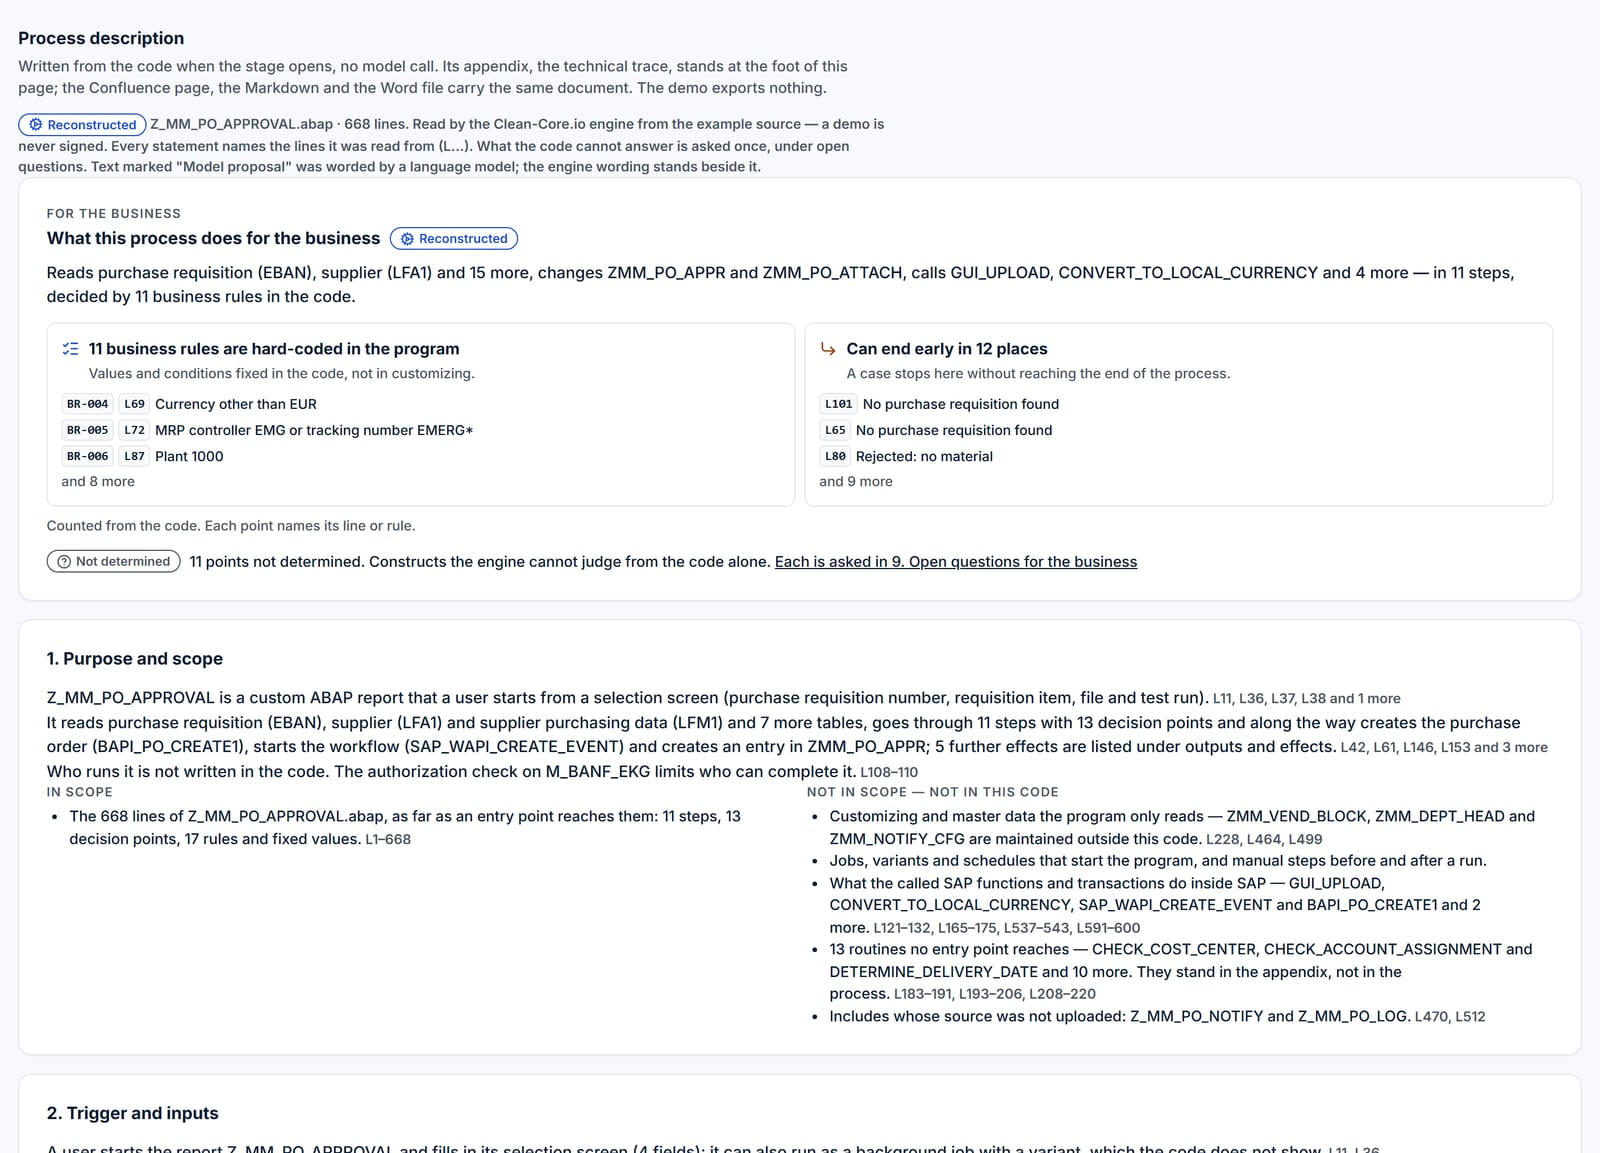
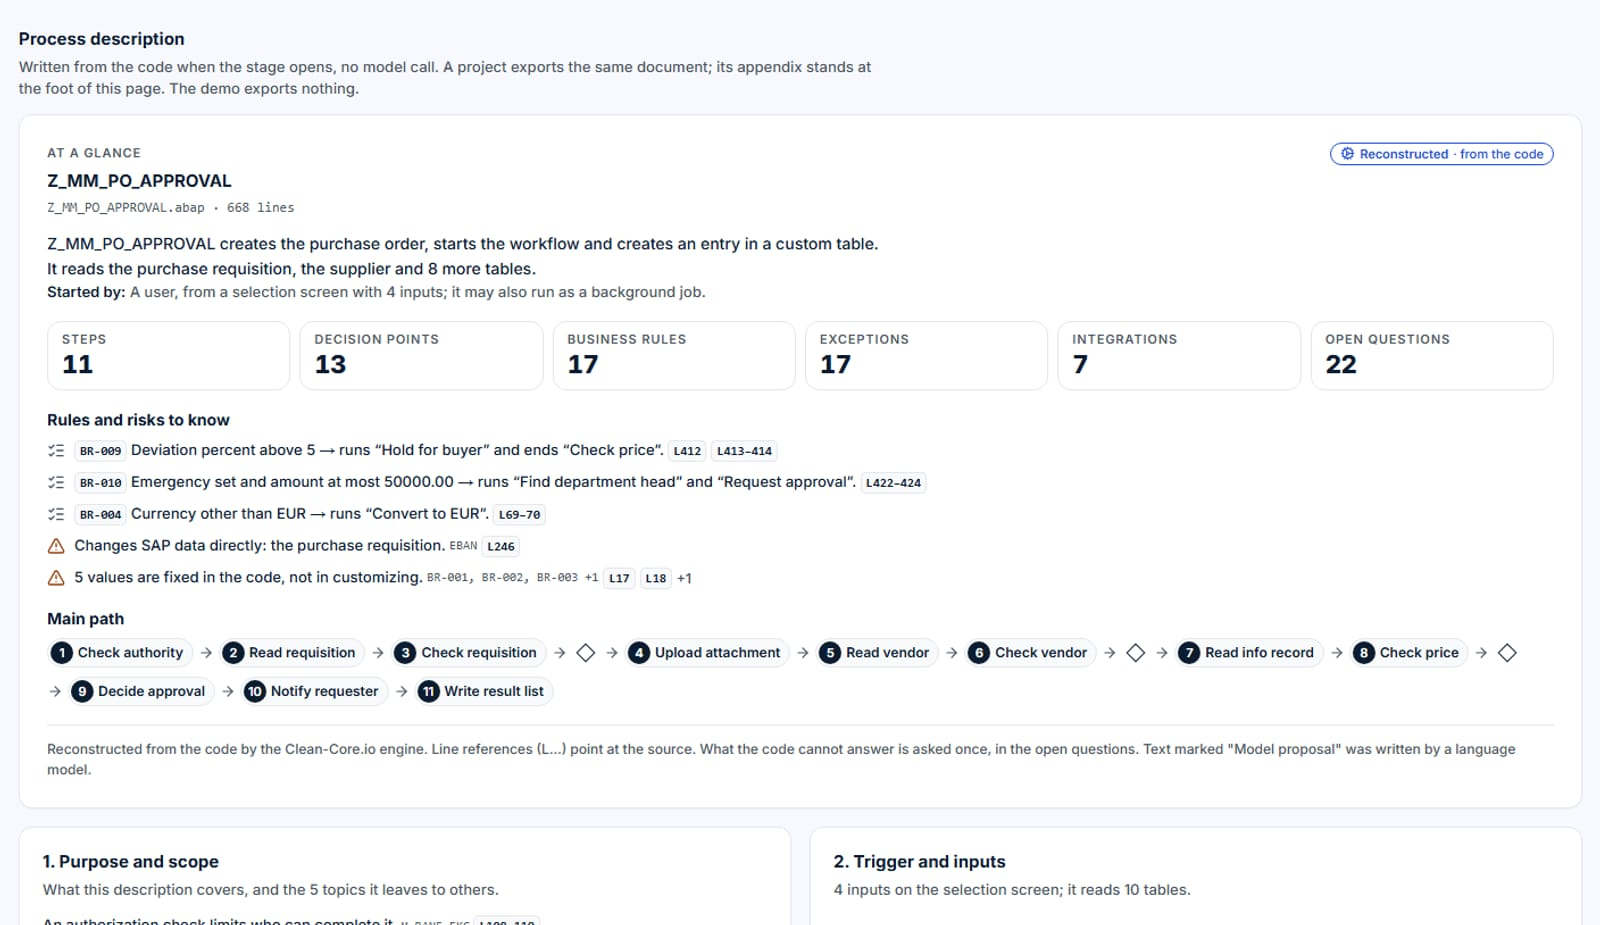
fix(documentation): no hash fragment on the stage; help texts and the landing picture show the summary
The source hash stays on the exports' cover; on screen it was a machine
string (machine-strings-guard). The chatbot knowledge and the how-to name
the one-page summary. The landing picture of the Documentation stage is
re-taken from /demo/documentation with the capture spec's clip and encoding;
the other landing pictures are unchanged.

diff --git a/lib/chatbot-knowledge.ts b/lib/chatbot-knowledge.ts
@@ -180,7 +180,7 @@ Test scenarios for the generated code, and the result that is on record for them
 
 ### Documentation Stage (/project/[id]/documentation)
 Process documentation read out of the whole analysed source by the engine, with no model involved.
-- **Process Documentation**: a process description written from the code when the stage opens - purpose and scope, trigger and inputs, the main steps, decision points and rules, exceptions, outputs, integrations, controls and audit, open questions - with the element-by-element trace as an appendix, every statement with its line numbers; owner, KPIs and duration are open questions because the code does not contain them
+- **Process Documentation**: a process description written from the code when the stage opens - a one-page summary first (what it does, key figures, the rules and risks to know, the main path), then purpose and scope, trigger and inputs, the main steps, decision points and rules, exceptions, outputs, integrations, controls, open questions grouped by theme - with the element-by-element trace as an appendix, every statement with its line numbers; owner, KPIs and duration are open questions because the code does not contain them
 - **Business Process Documentation**: BPMN 2.0 process diagrams as XML (import into SAP Signavio has not been verified yet)
 - **RACI Matrix** (model-written business layer, on request): responsibility assignment matrix
 - **Standard Operating Procedures (SOPs)** (model-written business layer, on request): step-by-step procedures with exception handling

diff --git a/lib/how-to-content.ts b/lib/how-to-content.ts
@@ -134,7 +134,7 @@ export const HOW_TO_PHASE_CONTENT: Readonly<Record<PhaseKey, PhaseHowTo>> = {
   },
   documentation: {
     summary:
-      'When you open Documentation, the process description is written from the whole analysed source — purpose and scope, trigger and inputs, the main steps, rules, exceptions, effects, integrations, controls and open questions, with the technical trace as an appendix, every statement with its lines — and, where a model is available, a business layer with SOPs, a RACI matrix and control checkpoints is proposed once.',
+      'When you open Documentation, the process description is written from the whole analysed source — a one-page summary with key figures and the rules and risks to know, then purpose and scope, trigger and inputs, the main steps, rules, exceptions, effects, integrations, controls and open questions, with the technical trace as an appendix, every statement with its lines — and, where a model is available, a business layer with SOPs, a RACI matrix and control checkpoints is proposed once.',
     details: [
       'The process can be exported as BPMN 2.0 XML, and the process description as Confluence HTML, Markdown or Word.',
       'An owner, the roles, performance indicators or durations are not in the source, so the documentation lists them as not determined instead of filling them in.',

diff --git a/components/documentation/ProcessDocumentView.tsx b/components/documentation/ProcessDocumentView.tsx
@@ -218,7 +218,7 @@ function Glance({ doc, outline, extra }: { doc: ProcessDocument; outline: PdOutl
       </div>
       <h3 id="pd-glance" className="m-0 mt-1 cc-text-h2 text-cc-ink">{doc.program}</h3>
       <p className="m-0 mt-1 font-cc-mono cc-text-meta font-medium text-cc-ink-muted">
-        {doc.fileName} · {doc.lineCount} lines · SHA-256 {doc.sourceSha256.slice(0, 12)}…
+        {doc.fileName} · {doc.lineCount} lines
       </p>
       <div data-glance-summary="" className="mt-3 max-w-4xl space-y-1">
         {g.summary.map((s, i) => (
